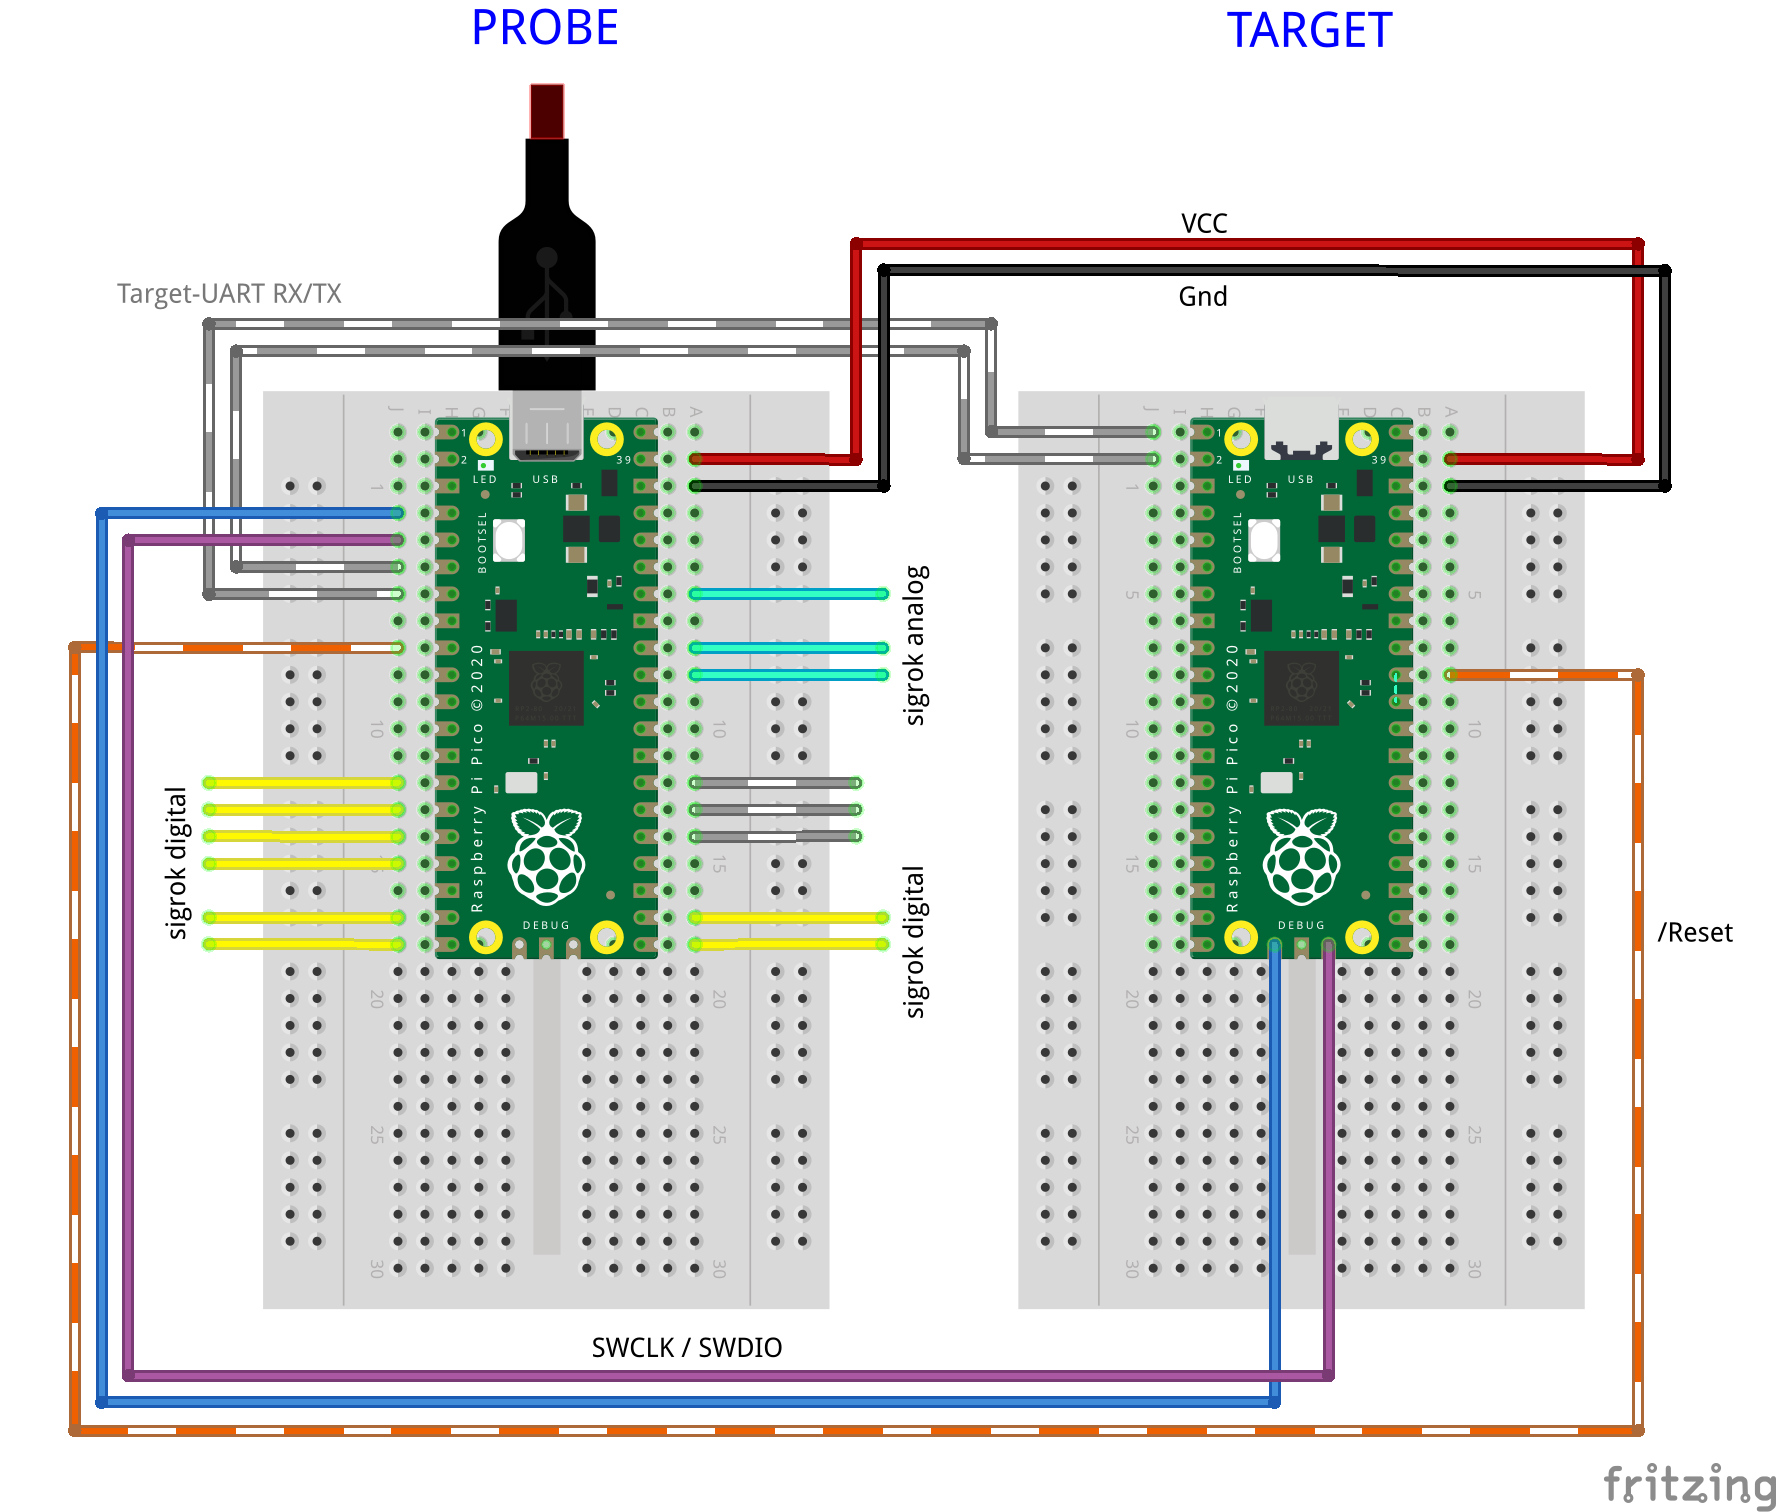
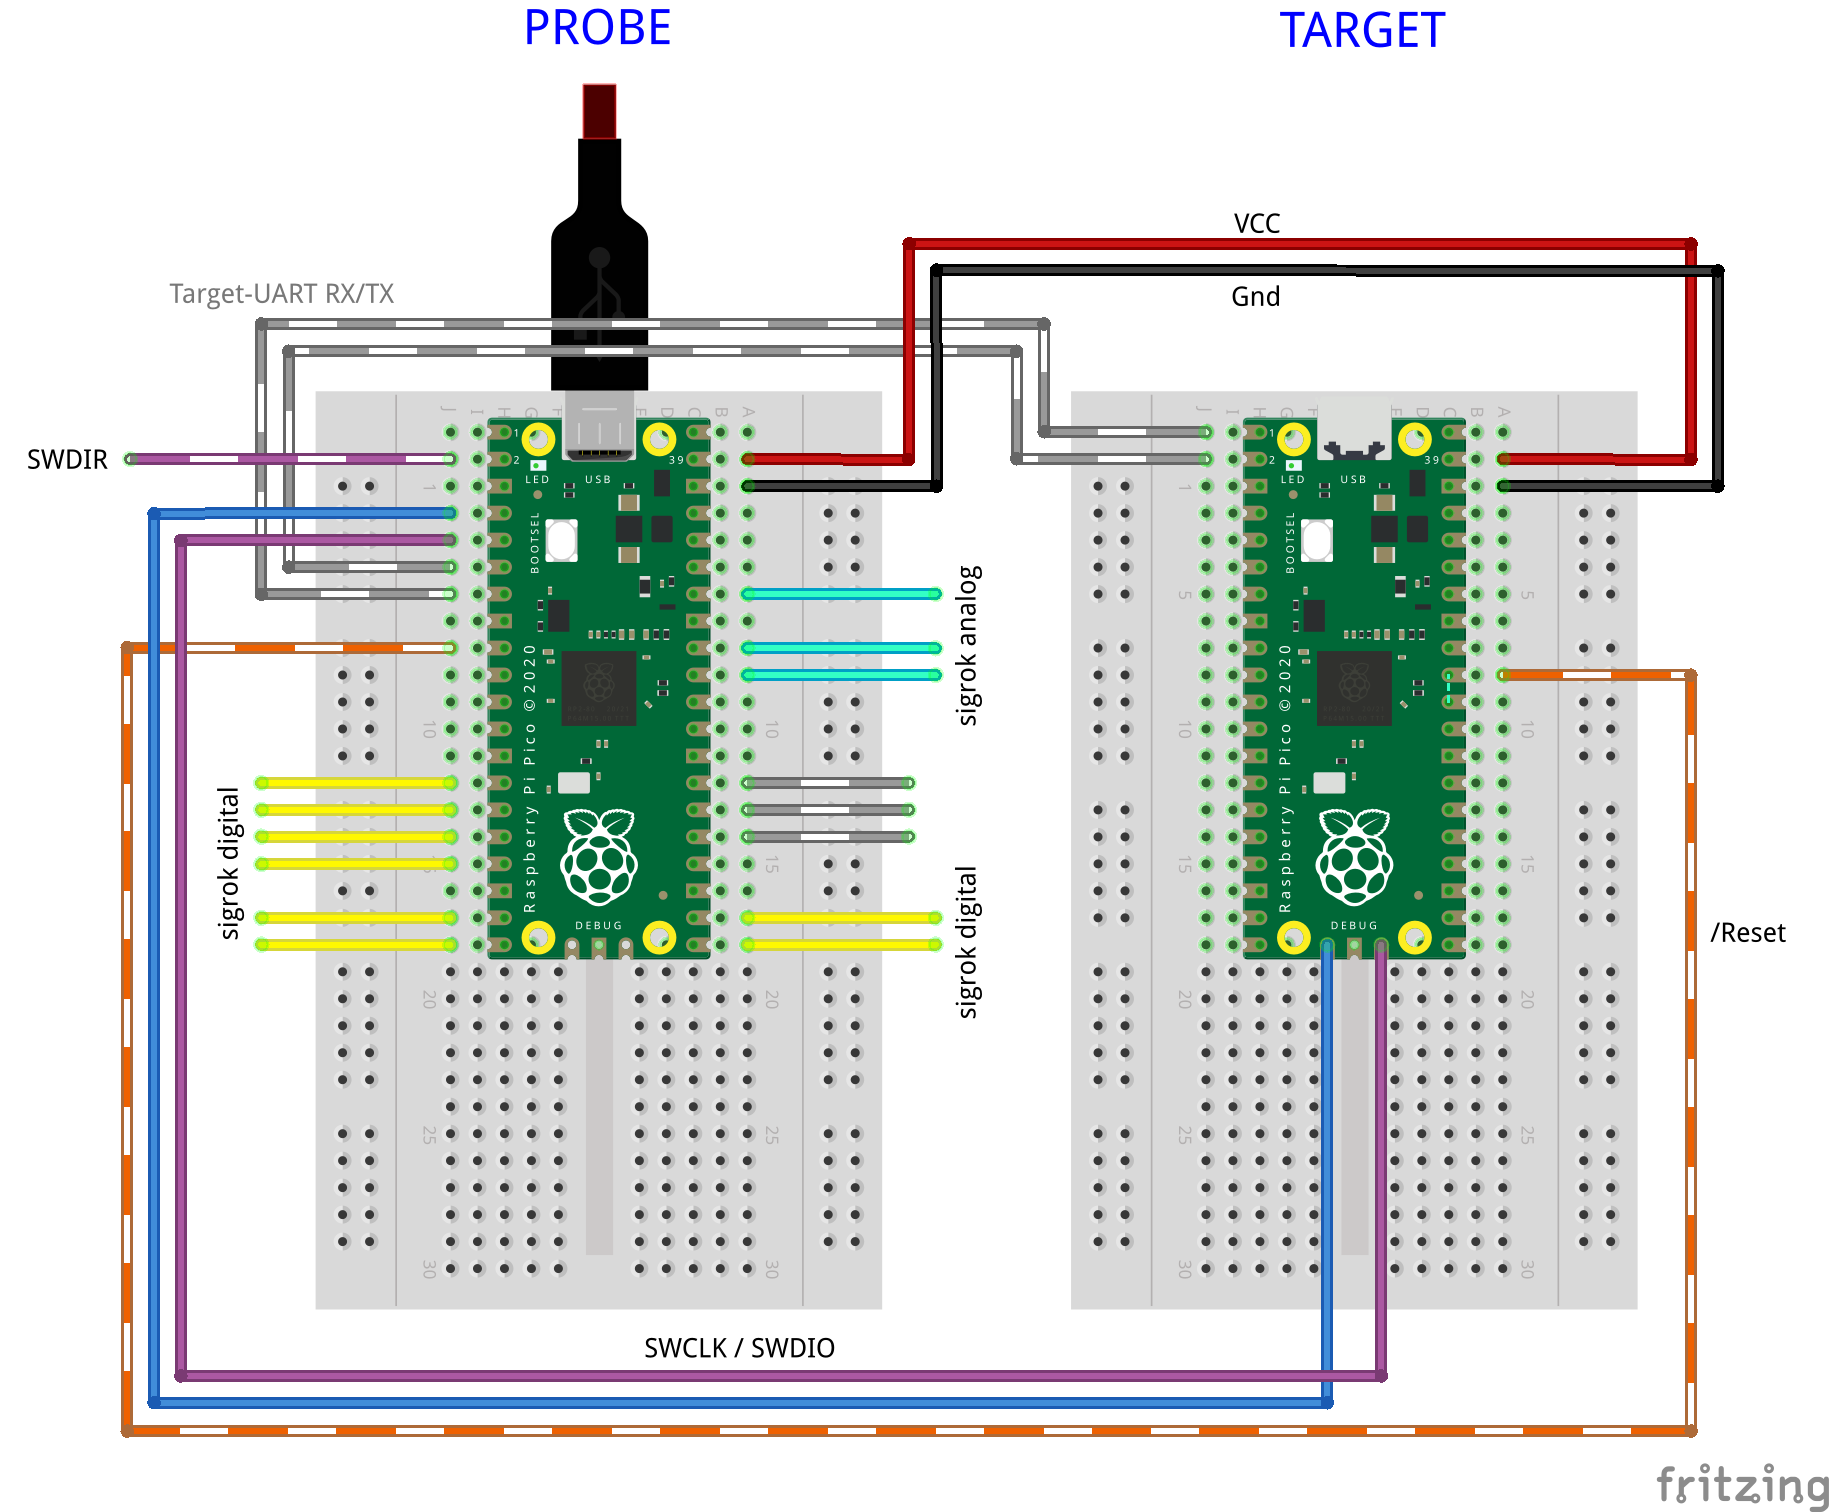
now with SWDIR pin

diff --git a/src/probe.c b/src/probe.c
@@ -186,6 +186,7 @@ void probe_gpio_init()
 		picoprobe_debug("probe_gpio_init()\n");
 
 		// Funcsel pins
+        pio_gpio_init(PROBE_PIO, PROBE_PIN_SWDIR);
 		pio_gpio_init(PROBE_PIO, PROBE_PIN_SWCLK);
 		pio_gpio_init(PROBE_PIO, PROBE_PIN_SWDIO);
 		// Make sure SWDIO has a pullup on it. Idle state is high
@@ -213,15 +214,15 @@ void probe_init()
         pio_sm_config sm_config = probe_program_get_default_config(offset);
 
         // Set SWCLK as a sideset pin
-        sm_config_set_sideset_pins(&sm_config, PROBE_PIN_SWCLK);
+        sm_config_set_sideset_pins(&sm_config, PROBE_PIN_SWDIR);
 
         // Set SWDIO offset
         sm_config_set_out_pins(&sm_config, PROBE_PIN_SWDIO, 1);
         sm_config_set_set_pins(&sm_config, PROBE_PIN_SWDIO, 1);
         sm_config_set_in_pins(&sm_config, PROBE_PIN_SWDIO);
 
-        // Set SWD and SWDIO pins as output to start. This will be set in the sm
-        pio_sm_set_consecutive_pindirs(PROBE_PIO, PROBE_SM, PROBE_PIN_OFFSET, 2, true);
+        // Set SWDIR, SWCLK and SWDIO pins as output to start. This will be set in the sm
+        pio_sm_set_consecutive_pindirs(PROBE_PIO, PROBE_SM, PROBE_PIN_OFFSET, 3, true);
 
         // shift output right, autopull on, autopull threshold
         sm_config_set_out_shift(&sm_config, true, true, 32);

diff --git a/src/picoprobe_config.h b/src/picoprobe_config.h
@@ -80,9 +80,10 @@
 // PIO config
 #define PROBE_PIO                pio0
 #define PROBE_SM                 0
-#define PROBE_PIN_OFFSET         2
-#define PROBE_PIN_SWCLK          (PROBE_PIN_OFFSET + 0) // 2
-#define PROBE_PIN_SWDIO          (PROBE_PIN_OFFSET + 1) // 3
+#define PROBE_PIN_OFFSET         1
+#define PROBE_PIN_SWDIR          (PROBE_PIN_OFFSET + 0) // 1
+#define PROBE_PIN_SWCLK          (PROBE_PIN_OFFSET + 1) // 2
+#define PROBE_PIN_SWDIO          (PROBE_PIN_OFFSET + 2) // 3
 #define PROBE_PIN_RESET          6                      // Target reset config
 #define PROBE_MAX_KHZ            25000U                 // overclocked: according to RP2040 datasheet 24MHz
 #define PROBE_DEFAULT_KHZ        15000
